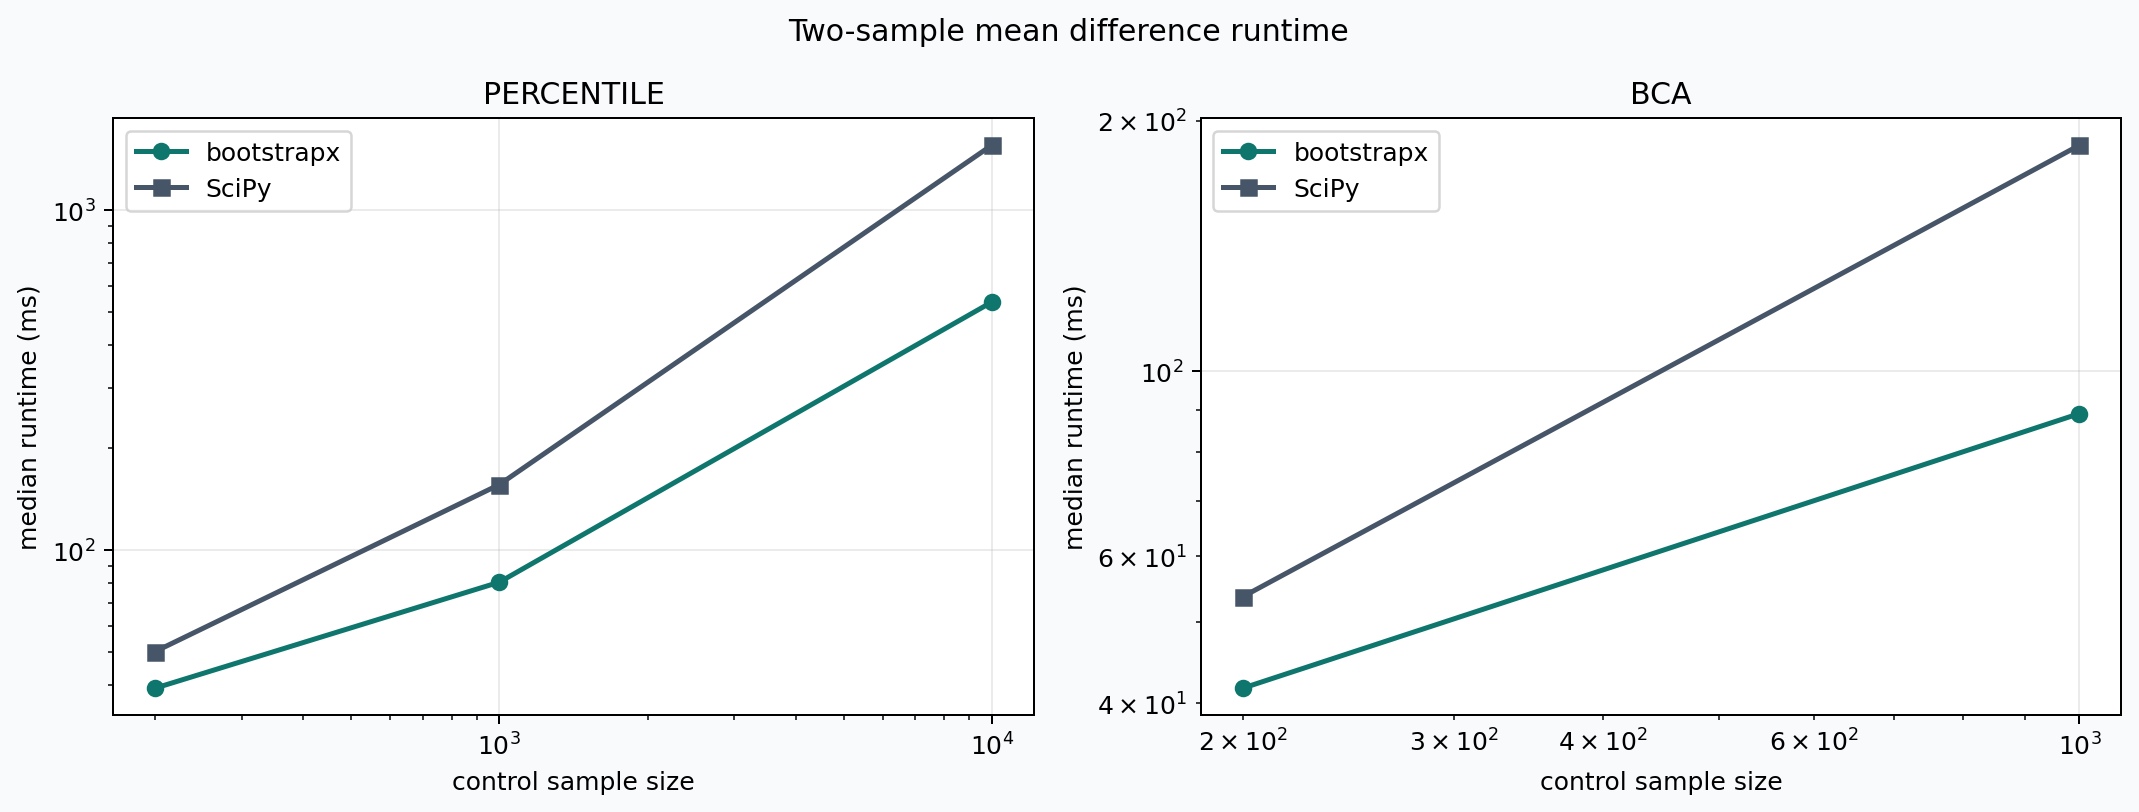
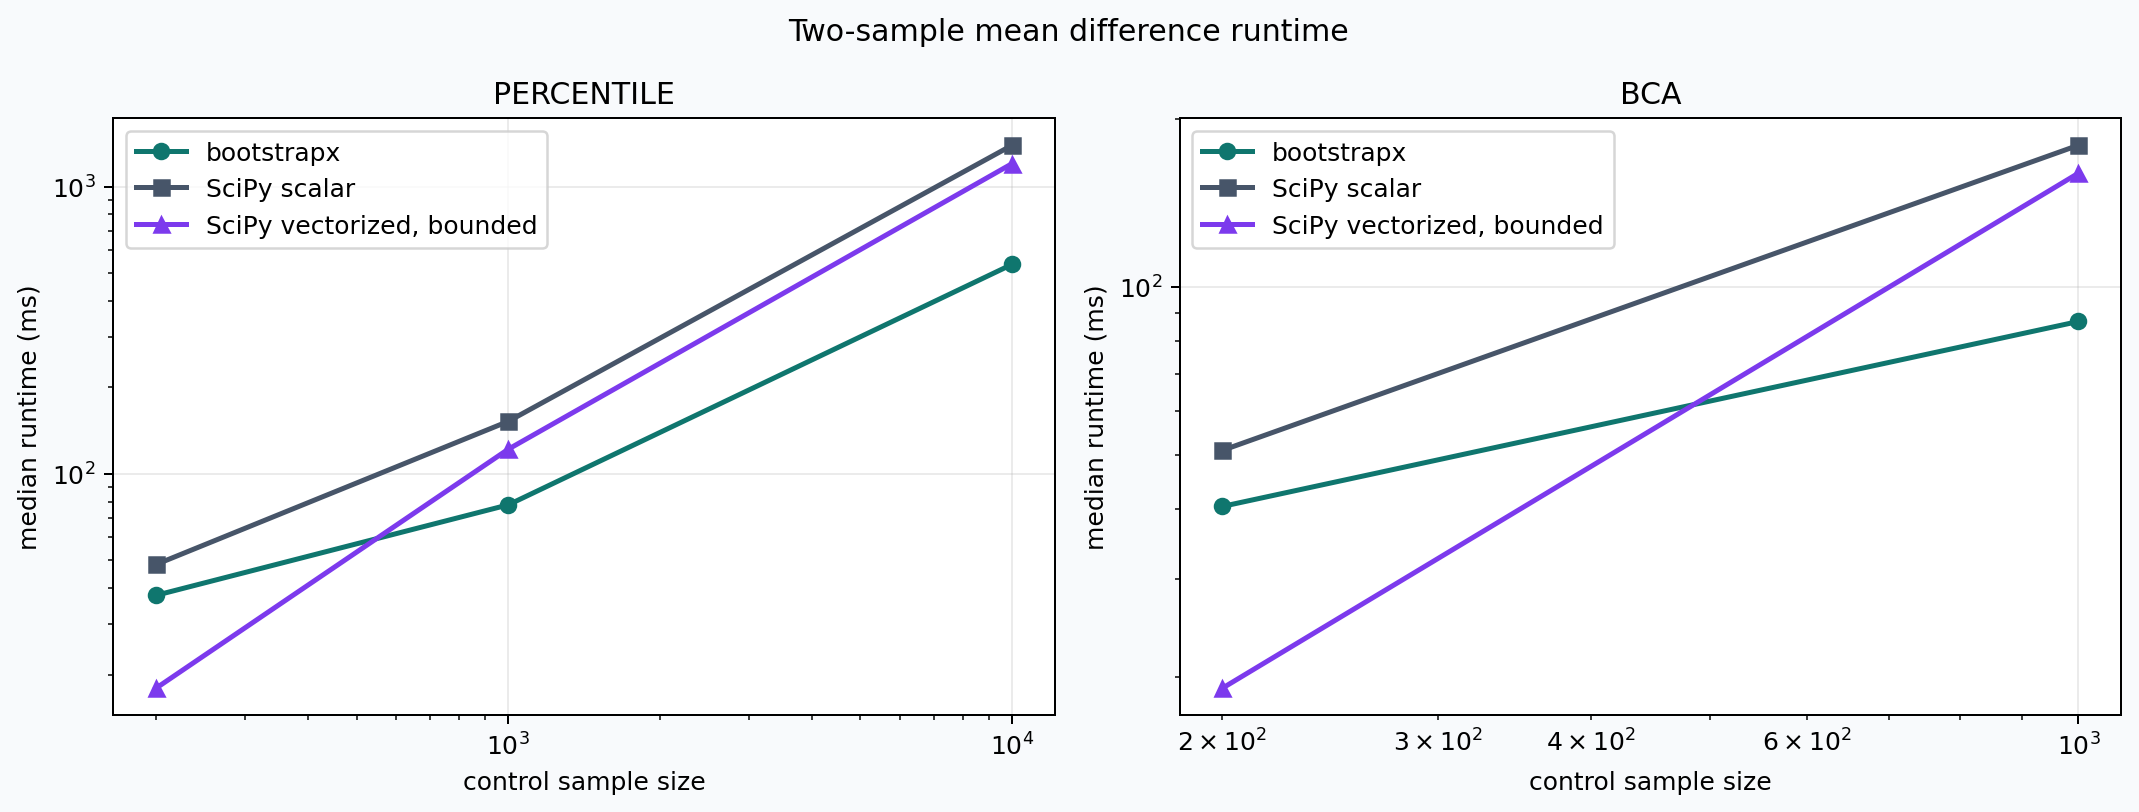
docs: record audited 0.5.0 benchmarks

diff --git a/docs/benchmarks.md b/docs/benchmarks.md
@@ -76,7 +76,7 @@ python benchmarks/plot_comparison_results.py \
 
 ### Audited 0.5.0 statistical behavior
 
-The versioned release run measured commit `19d037e` on Apple Silicon/macOS
+The versioned release run measured commit `c14fe63` on Apple Silicon/macOS
 15.7.4 with Python 3.11.5, NumPy 1.26.4, and SciPy 1.11.1. It completed all 33
 planned cells: 300 independently generated datasets and 4,999 resamples per
 cell, for 9,900 valid intervals in total. No trial failed or produced an
@@ -112,28 +112,31 @@ and [environment metadata](https://github.com/artyerokhin/bootstrapx/blob/main/b
 Each timing cell used 4,999 resamples, one unmeasured warm-up, and the median
 of five measured calls. The statistic was `np.mean` and the effect was a
 treatment-minus-control difference. This recorded run compared bootstrapx
-with SciPy's scalar `vectorized=False` configuration. It did not benchmark
-SciPy's vectorized path, so the table must not be read as a general speed
-comparison with SciPy.
+with both SciPy's scalar `vectorized=False` configuration and SciPy's
+vectorized path using the same bounded-batch heuristic as bootstrapx. Values
+above 1 in either ratio column mean bootstrapx was faster; values below 1 mean
+the corresponding SciPy configuration was faster.
 
-| Method | Control / treatment rows | bootstrapx (ms) | SciPy scalar (ms) | SciPy scalar / bootstrapx |
-|---|---:|---:|---:|---:|
-| Percentile | 200 / 250 | 39.27 | 50.32 | 1.28× |
-| BCa | 200 / 250 | 41.69 | 53.67 | 1.29× |
-| Percentile | 1,000 / 1,250 | 80.49 | 155.87 | 1.94× |
-| BCa | 1,000 / 1,250 | 89.02 | 186.84 | 2.10× |
-| Percentile | 10,000 / 12,500 | 536.50 | 1,551.99 | 2.89× |
+| Method | Control / treatment rows | bootstrapx (ms) | SciPy scalar (ms) | SciPy bounded-vectorized (ms) | Scalar / bootstrapx | Vectorized / bootstrapx |
+|---|---:|---:|---:|---:|---:|---:|
+| Percentile | 200 / 250 | 37.74 | 48.34 | 17.93 | 1.28× | 0.48× |
+| BCa | 200 / 250 | 40.48 | 51.00 | 19.14 | 1.26× | 0.47× |
+| Percentile | 1,000 / 1,250 | 77.94 | 152.21 | 121.74 | 1.95× | 1.56× |
+| BCa | 1,000 / 1,250 | 86.74 | 179.34 | 159.84 | 2.07× | 1.84× |
+| Percentile | 10,000 / 12,500 | 535.89 | 1,392.56 | 1,201.87 | 2.60× | 2.24× |
 
 ![Two-sample runtime](assets/benchmarks/v0.5.0/runtime.png)
 
-The `tracemalloc` peaks were 0.137 MB versus 85.867 MB at 500 control rows,
-and 0.097 MB versus 343.308 MB at 2,000 rows. The SciPy side again used the
-scalar path with its default batch. Because SciPy also exposes `batch`, these
-numbers demonstrate only this recorded configuration, not a unique or
-universal bootstrapx memory advantage. `tracemalloc` is not process RSS and
-does not cover every native allocation, so the result must not be presented
-as total-memory usage. Cluster-only bootstrapx calls took 120.01 ms for 40
-control clusters and 452.13 ms for 200 clusters, with five rows per cluster.
+The `tracemalloc` peaks for bootstrapx, scalar SciPy, and bounded-vectorized
+SciPy were respectively 0.137 MB, 85.867 MB, and 0.222 MB at 500 control rows;
+at 2,000 rows they were 0.097 MB, 343.308 MB, and 0.805 MB. The scalar SciPy
+path used its default batch, while the vectorized path used the matched bounded
+batch. These figures demonstrate only the recorded configurations, not a
+unique or universal bootstrapx memory advantage. `tracemalloc` is not process
+RSS and does not cover every native allocation, so the result must not be
+presented as total-memory usage. Cluster-only bootstrapx calls took 120.38 ms
+for 40 control clusters and 439.09 ms for 200 clusters, with five rows per
+cluster.
 
 Auditable inputs: [runtime CSV](https://github.com/artyerokhin/bootstrapx/blob/main/benchmark_runs/v0.5.0-release/runtime/runtime.csv),
 [memory CSV](https://github.com/artyerokhin/bootstrapx/blob/main/benchmark_runs/v0.5.0-release/runtime/memory.csv),

diff --git a/CHANGELOG.md b/CHANGELOG.md
@@ -3,7 +3,7 @@
 All notable changes to this project will be documented in this file.
 Format follows [Keep a Changelog](https://keepachangelog.com/en/1.1.0/).
 
-## [0.5.0] — Unreleased
+## [0.5.0] — 2026-09-06
 
 ### Added
 - `bootstrap_two_sample()` estimates an explicit treatment-versus-control
@@ -44,8 +44,8 @@ Format follows [Keep a Changelog](https://keepachangelog.com/en/1.1.0/).
   scale and no longer depends on the magnitude of the treatment estimate.
 - Source distributions include the release-facing notebooks required by their
   bundled tests, and CI verifies those archive contents before publication.
-- Two-sample performance evidence now labels the recorded SciPy comparison as
-  scalar; future runs also report vectorized SciPy with a matched bounded batch.
+- Two-sample performance evidence reports both scalar SciPy and vectorized
+  SciPy with a matched bounded batch, avoiding a misleading blanket speed claim.
 
 ### Tests
 - Deterministic resampling, batch-size invariance, SciPy reference comparisons,

diff --git a/README.md b/README.md
@@ -45,9 +45,10 @@ The audited 0.5.0 experiment suite completed 9,900 interval trials without a
 failure or invalid result. Across the 15 cells directly matched with SciPy,
 the mean absolute coverage difference was 0.42 percentage points and the
 largest was 1.67 points. On the recorded Apple Silicon runtime grid,
-bootstrapx was 1.28–2.89× faster than SciPy's scalar (`vectorized=False`)
-configuration. This does not establish an advantage over vectorized SciPy;
-these machine- and workload-specific measurements are not a blanket
+bootstrapx was 1.26–2.60× faster than SciPy's scalar (`vectorized=False`)
+configuration. Against bounded-vectorized SciPy, it was slower for the two
+small-sample cells and 1.56–2.24× faster for the three larger-sample cells.
+These machine- and workload-specific measurements are not a blanket
 performance guarantee. See the
 [benchmark evidence](https://artyerokhin.github.io/bootstrapx/benchmarks/)
 for methods, uncertainty, difficult cases, and reproducible inputs.
